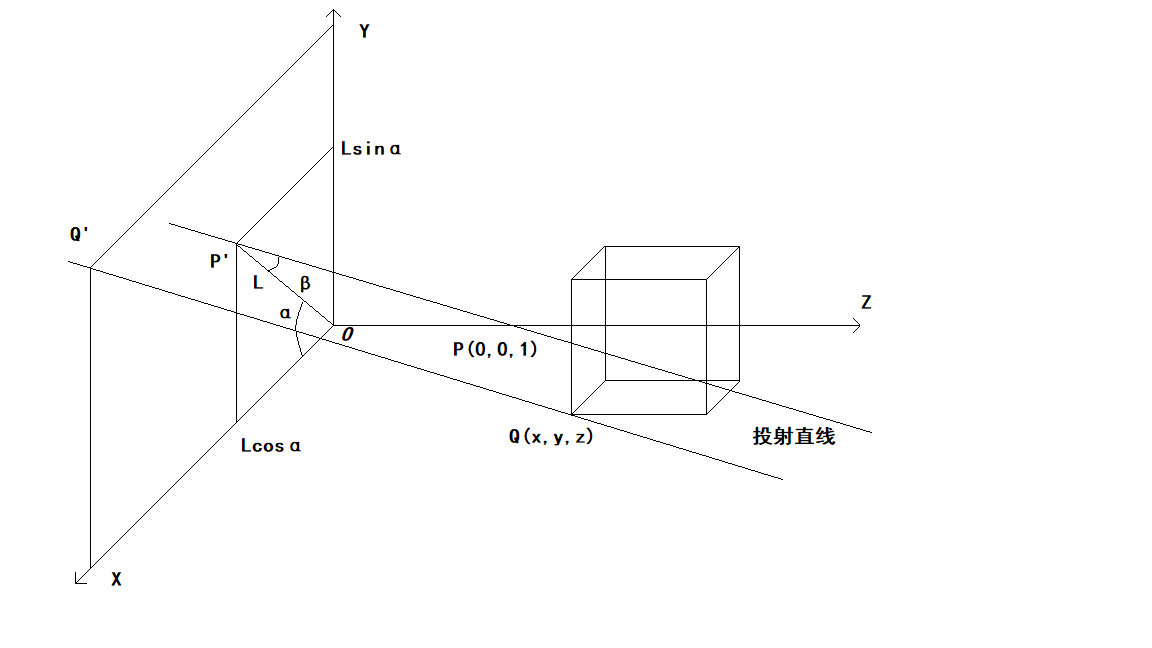
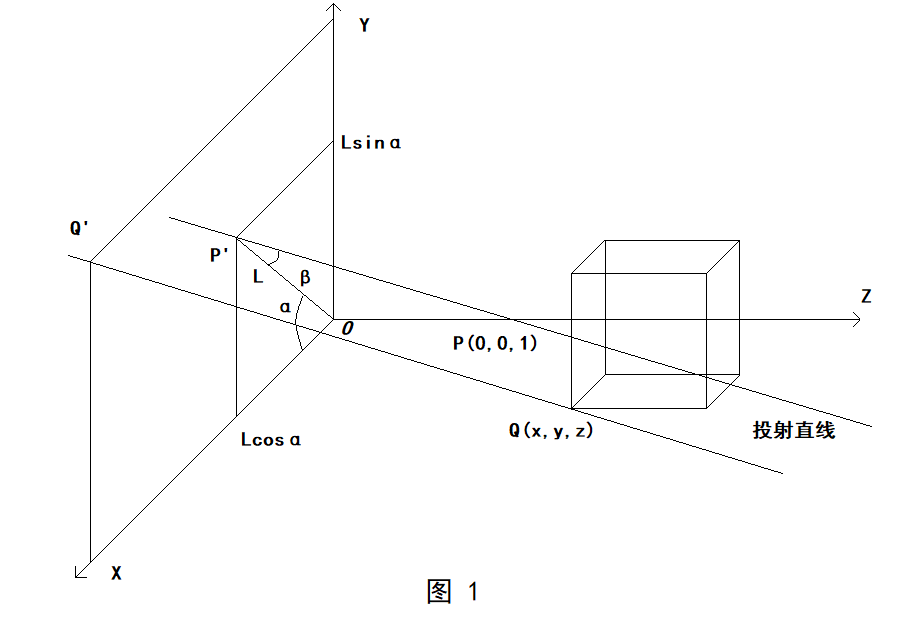
Site updated: 2019-11-22 19:04:29

diff --git a/2019/11/20/斜投影——学习笔记/index.html b/2019/11/20/斜投影——学习笔记/index.html
@@ -8,17 +8,17 @@
   <link rel="dns-prefetch" href="https://ga-lin.github.io">
   <title>斜投影——学习笔记 | Galin · Hexo</title>
   <meta name="viewport" content="width=device-width, initial-scale=1, maximum-scale=1">
-  <meta name="description" content="一个直观的例子： 假设： 1）投影平面为z=0 2）直角坐标为(0，0，1)的点P通过斜投影得到点P’ 3）L为P’到坐标原点的距离 4）α为OP’与x轴正向所形成的角 5）β为投射直线与投影平面所成的角  设三维空间中有直角坐标为(x，y，z)的任意一点Q’（如立方体的顶点）通过斜投影所得投影点的直角坐标为Q’（x’，y’，z’），显然z’=0，则  沿y轴负方向可得： $$ \frac{x’-">
+  <meta name="description" content="当投射直线与投影面不垂直时，投影面得到的就是斜投影，下面我们用一个直观的例子来说明。 一个直观的例子： 假设： 1）投影平面为 z=0 2）直角坐标为(0，0，1)的点P通过斜投影得到点P’ 3）L为P’到坐标原点的距离 4）α为OP’与x轴正向所形成的角 5）β为投射直线与投影平面所成的角  设三维空间中有直角坐标为(x，y，z)的任意一点Q’（如立方体的顶点），通过斜投影所得投影点的直角坐标为">
 <meta name="keywords" content="计算机图形学,学习笔记">
 <meta property="og:type" content="article">
 <meta property="og:title" content="斜投影——学习笔记">
 <meta property="og:url" content="https:&#x2F;&#x2F;ga-lin.github.io&#x2F;2019&#x2F;11&#x2F;20&#x2F;%E6%96%9C%E6%8A%95%E5%BD%B1%E2%80%94%E2%80%94%E5%AD%A6%E4%B9%A0%E7%AC%94%E8%AE%B0&#x2F;index.html">
 <meta property="og:site_name" content="Galin · Hexo">
-<meta property="og:description" content="一个直观的例子： 假设： 1）投影平面为z=0 2）直角坐标为(0，0，1)的点P通过斜投影得到点P’ 3）L为P’到坐标原点的距离 4）α为OP’与x轴正向所形成的角 5）β为投射直线与投影平面所成的角  设三维空间中有直角坐标为(x，y，z)的任意一点Q’（如立方体的顶点）通过斜投影所得投影点的直角坐标为Q’（x’，y’，z’），显然z’=0，则  沿y轴负方向可得： $$ \frac{x’-">
+<meta property="og:description" content="当投射直线与投影面不垂直时，投影面得到的就是斜投影，下面我们用一个直观的例子来说明。 一个直观的例子： 假设： 1）投影平面为 z=0 2）直角坐标为(0，0，1)的点P通过斜投影得到点P’ 3）L为P’到坐标原点的距离 4）α为OP’与x轴正向所形成的角 5）β为投射直线与投影平面所成的角  设三维空间中有直角坐标为(x，y，z)的任意一点Q’（如立方体的顶点），通过斜投影所得投影点的直角坐标为">
 <meta property="og:locale" content="en">
 <meta property="og:image" content="https:&#x2F;&#x2F;ga-lin.github.io&#x2F;2019&#x2F;11&#x2F;20&#x2F;%E6%96%9C%E6%8A%95%E5%BD%B1%E2%80%94%E2%80%94%E5%AD%A6%E4%B9%A0%E7%AC%94%E8%AE%B0&#x2F;%E6%96%9C%E6%8A%95%E5%BD%B1.png">
 <meta property="og:image" content="https:&#x2F;&#x2F;ga-lin.github.io&#x2F;2019&#x2F;11&#x2F;20&#x2F;%E6%96%9C%E6%8A%95%E5%BD%B1%E2%80%94%E2%80%94%E5%AD%A6%E4%B9%A0%E7%AC%94%E8%AE%B0&#x2F;%E6%B2%BFy%E8%BD%B4%E8%B4%9F%E6%96%B9%E5%90%91.png">
-<meta property="og:updated_time" content="2019-11-21T12:24:57.381Z">
+<meta property="og:updated_time" content="2019-11-22T11:02:51.849Z">
 <meta name="twitter:card" content="summary">
 <meta name="twitter:image" content="https:&#x2F;&#x2F;ga-lin.github.io&#x2F;2019&#x2F;11&#x2F;20&#x2F;%E6%96%9C%E6%8A%95%E5%BD%B1%E2%80%94%E2%80%94%E5%AD%A6%E4%B9%A0%E7%AC%94%E8%AE%B0&#x2F;%E6%96%9C%E6%8A%95%E5%BD%B1.png">
   
@@ -172,21 +172,22 @@
     
     <div class="article-entry" itemprop="articleBody">
       
-        <p><strong>一个直观的例子：</strong></p>
+        <p>当投射直线与投影面不垂直时，投影面得到的就是斜投影，下面我们用一个直观的例子来说明。<br>
+<strong>一个直观的例子：</strong></p>
 <p>假设：<br>
-1）投影平面为z=0<br>
+1）投影平面为 z=0<br>
 2）直角坐标为(0，0，1)的点P通过斜投影得到点P’<br>
 3）L为P’到坐标原点的距离<br>
 4）α为OP’与x轴正向所形成的角<br>
 5）β为投射直线与投影平面所成的角<br>
 <img src="/2019/11/20/%E6%96%9C%E6%8A%95%E5%BD%B1%E2%80%94%E2%80%94%E5%AD%A6%E4%B9%A0%E7%AC%94%E8%AE%B0/%E6%96%9C%E6%8A%95%E5%BD%B1.png" alt="斜投影"></p>
-<p>设三维空间中有直角坐标为(x，y，z)的任意一点Q’（如立方体的顶点）通过斜投影所得投影点的直角坐标为Q’（x’，y’，z’），显然z’=0，则<br>
+<p>设三维空间中有直角坐标为(x，y，z)的任意一点Q’（如立方体的顶点），通过斜投影所得投影点的直角坐标为Q’（x’，y’，z’），显然 z’=0，则<br>
 <img src="/2019/11/20/%E6%96%9C%E6%8A%95%E5%BD%B1%E2%80%94%E2%80%94%E5%AD%A6%E4%B9%A0%E7%AC%94%E8%AE%B0/%E6%B2%BFy%E8%BD%B4%E8%B4%9F%E6%96%B9%E5%90%91.png" alt="沿y轴负方向"><br>
-沿y轴负方向可得：<br>
+沿y轴负方向看去（如上图），可得：<br>
 $$<br>
 \frac{x’-x}{z}=\frac{Lcosα}{1}<br>
 $$</p>
-<p>同理，沿x轴负方向可得：<br>
+<p>同理，沿x轴负方向看去可得：<br>
 $$<br>
 \frac{y’-y}{z}=\frac{Lsinα}{1}<br>
 $$</p>
@@ -194,7 +195,12 @@ $$</p>
 $$<br>
 x’=x+z(Lcosα),y’=y+z(Lsinα)<br>
 $$<br>
-可将三维空间中任意一点斜投影至平面z=0上</p>
+可将三维空间中任意一点斜投影至平面 z=0上</p>
+<p><strong>如何得到斜二测投影？</strong></p>
+<p>实际上，观察图 1可知，投影平面上斜投影点的位置与角β有关，而角β受到点P和L的控制</p>
+<p>当tanβ=2时，即可得到斜二测投影（斜二测投影使垂直于投影面的线段长度缩短为原来的一半）<br>
+当tanβ=1时，得到斜等测投影（斜等测投影使垂直于投影面的线段仍保持长度）</p>
+<p>此时α角还可以不同</p>
 
       
 

diff --git a/index.html b/index.html
@@ -167,21 +167,22 @@
     
     <div class="article-entry" itemprop="articleBody">
       
-        <p><strong>一个直观的例子：</strong></p>
+        <p>当投射直线与投影面不垂直时，投影面得到的就是斜投影，下面我们用一个直观的例子来说明。<br>
+<strong>一个直观的例子：</strong></p>
 <p>假设：<br>
-1）投影平面为z=0<br>
+1）投影平面为 z=0<br>
 2）直角坐标为(0，0，1)的点P通过斜投影得到点P’<br>
 3）L为P’到坐标原点的距离<br>
 4）α为OP’与x轴正向所形成的角<br>
 5）β为投射直线与投影平面所成的角<br>
 <img src="/2019/11/20/%E6%96%9C%E6%8A%95%E5%BD%B1%E2%80%94%E2%80%94%E5%AD%A6%E4%B9%A0%E7%AC%94%E8%AE%B0/%E6%96%9C%E6%8A%95%E5%BD%B1.png" alt="斜投影"></p>
-<p>设三维空间中有直角坐标为(x，y，z)的任意一点Q’（如立方体的顶点）通过斜投影所得投影点的直角坐标为Q’（x’，y’，z’），显然z’=0，则<br>
+<p>设三维空间中有直角坐标为(x，y，z)的任意一点Q’（如立方体的顶点），通过斜投影所得投影点的直角坐标为Q’（x’，y’，z’），显然 z’=0，则<br>
 <img src="/2019/11/20/%E6%96%9C%E6%8A%95%E5%BD%B1%E2%80%94%E2%80%94%E5%AD%A6%E4%B9%A0%E7%AC%94%E8%AE%B0/%E6%B2%BFy%E8%BD%B4%E8%B4%9F%E6%96%B9%E5%90%91.png" alt="沿y轴负方向"><br>
-沿y轴负方向可得：<br>
+沿y轴负方向看去（如上图），可得：<br>
 $$<br>
 \frac{x’-x}{z}=\frac{Lcosα}{1}<br>
 $$</p>
-<p>同理，沿x轴负方向可得：<br>
+<p>同理，沿x轴负方向看去可得：<br>
 $$<br>
 \frac{y’-y}{z}=\frac{Lsinα}{1}<br>
 $$</p>
@@ -189,7 +190,12 @@ $$</p>
 $$<br>
 x’=x+z(Lcosα),y’=y+z(Lsinα)<br>
 $$<br>
-可将三维空间中任意一点斜投影至平面z=0上</p>
+可将三维空间中任意一点斜投影至平面 z=0上</p>
+<p><strong>如何得到斜二测投影？</strong></p>
+<p>实际上，观察图 1可知，投影平面上斜投影点的位置与角β有关，而角β受到点P和L的控制</p>
+<p>当tanβ=2时，即可得到斜二测投影（斜二测投影使垂直于投影面的线段长度缩短为原来的一半）<br>
+当tanβ=1时，得到斜等测投影（斜等测投影使垂直于投影面的线段仍保持长度）</p>
+<p>此时α角还可以不同</p>
 
       
 
